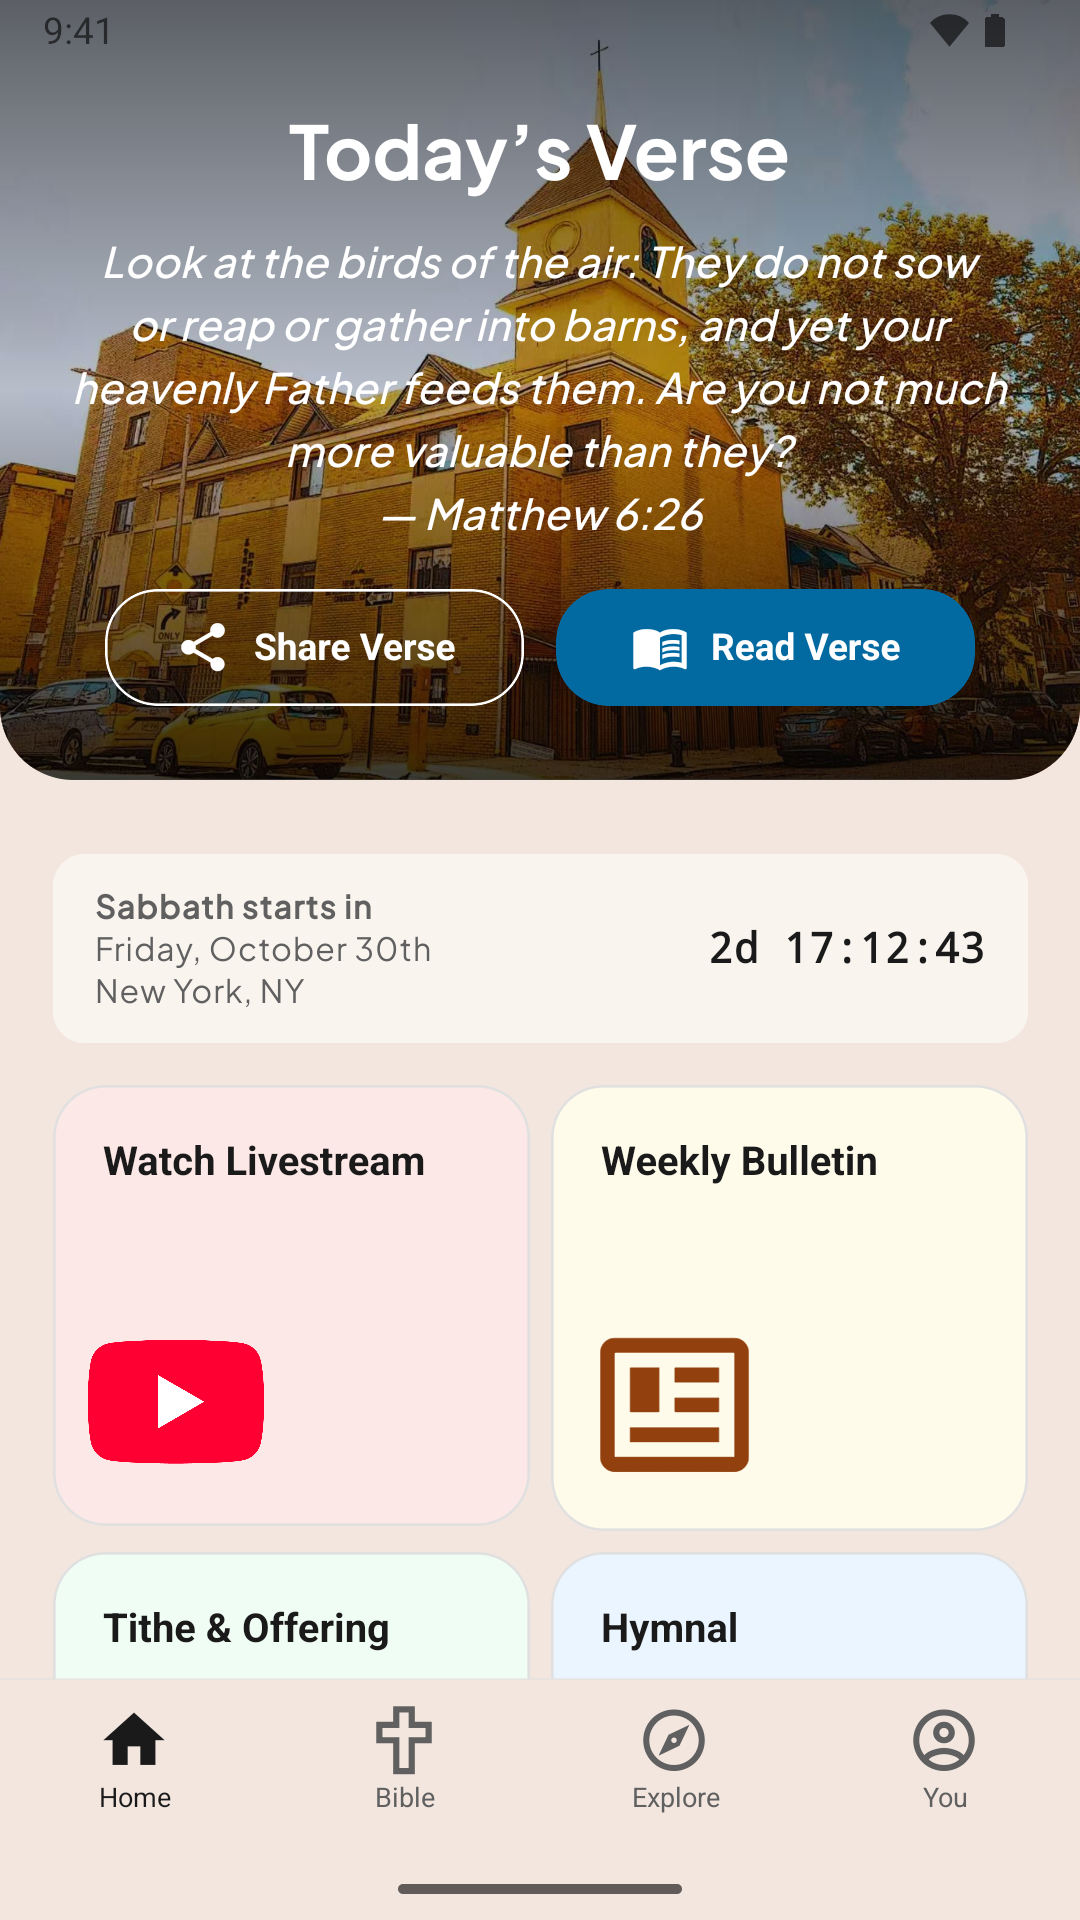
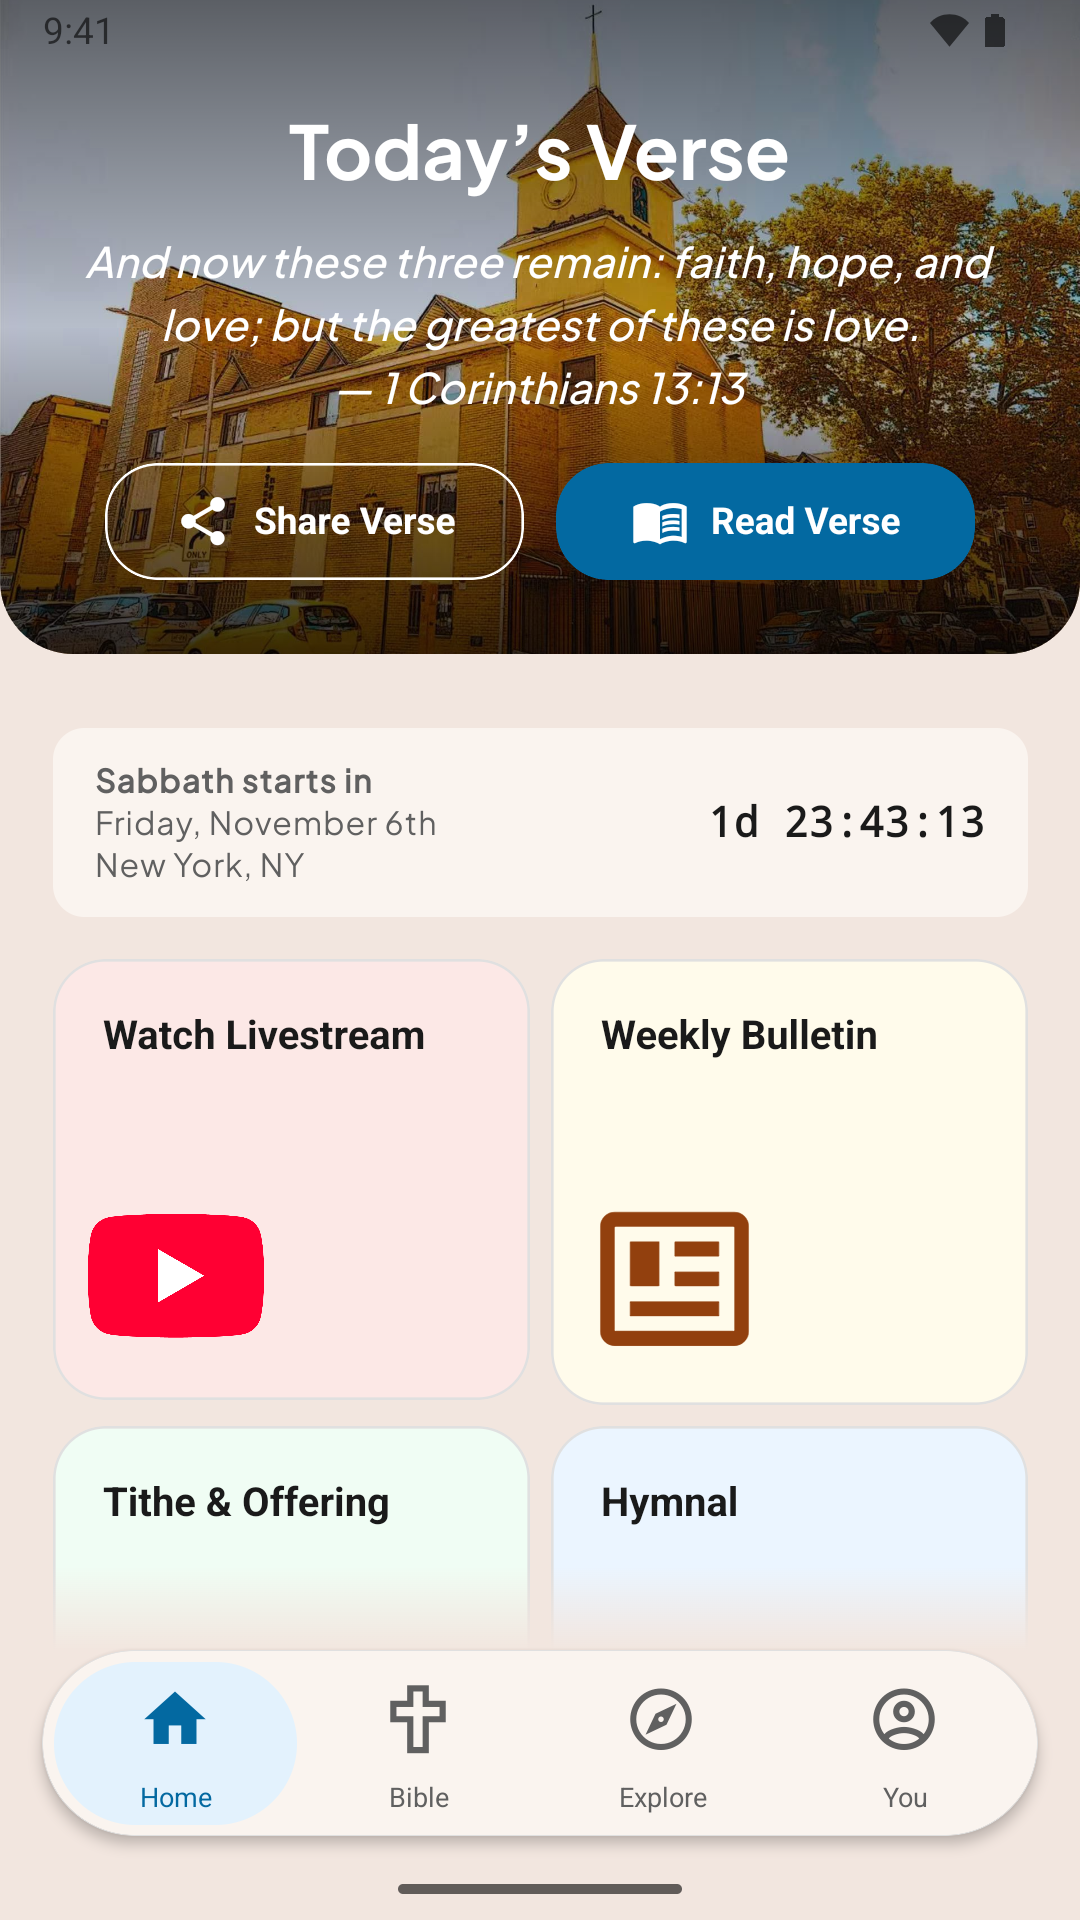
Refresh the store screenshots, headers and feature graphic from 1.7.0's runs
The iPhone, iPad and Google Play sets now show the floating tab bar and
Bible card (#589) in Design A's colours, from the 1.7.0 key-screen runs:
iOS 41919509424 and Android 41919513576. The App Store headers and the
Play feature graphic are rebuilt from them. Metadata stripped; no alpha;
no members' names.

diff --git a/docs/store-assets/README.md b/docs/store-assets/README.md
@@ -29,8 +29,8 @@ are captured, their sizes, and what they may show are in
   takes: Home, the Bible in English and Chinese, the Bible in landscape, the Library,
   and Home in landscape. They're the key screens' 13-inch iPad shots, at the iPad's own
   150% text, copied from a run's `screens/app-store-ipad/en-US/` when the app first ran
-  on iPad (#324), with the tablet's tab bar capsule (#589), November 4, 2026. Upload them with the first release that supports
-  iPad, and copy a newer run's set here only when the iPad's layout changes; a different
+  on iPad (#324), with the floating tab bar and Bible card (#589), November 4, 2026. Upload
+  them with 1.7.0, the first release that supports iPad, and copy a newer run's set here only when the iPad's layout changes; a different
   day's verse on Home isn't a reason. The other languages' listings show these too.
 - `app-store/header/`: the App Store product page headers, one per listing language:
   `en-US.png`, `zh-Hant.png`, `zh-Hans.png`, and `es.png` for both Spanish listings.
@@ -53,9 +53,10 @@ are captured, their sizes, and what they may show are in
   [Foreground service](../operations/play-console-answers.md#foreground-service).
 
 The Play app icon is `public/icon-512x512.png`, so it isn't copied here. The screenshots
-and headers here are from the key-screen runs for 1.4.0 on October 28, 2026, the first
-with the 1919 Chinese Union Version: [iOS](https://github.com/CodeSammich/sda-church-app/actions/runs/40628414994)
-and [Android](https://github.com/CodeSammich/sda-church-app/actions/runs/40632080157). The
+and headers here are from the key-screen runs for 1.7.0 on November 4, 2026, the first
+with the floating tab bar and Bible card on every system (#589):
+[iOS](https://github.com/CodeSammich/sda-church-app/actions/runs/41919509424) and
+[Android](https://github.com/CodeSammich/sda-church-app/actions/runs/41919513576). The
 feature graphic was built from the Google Play ones.
 
 Each run also saves numbered App Store copies in its screenshots download's
